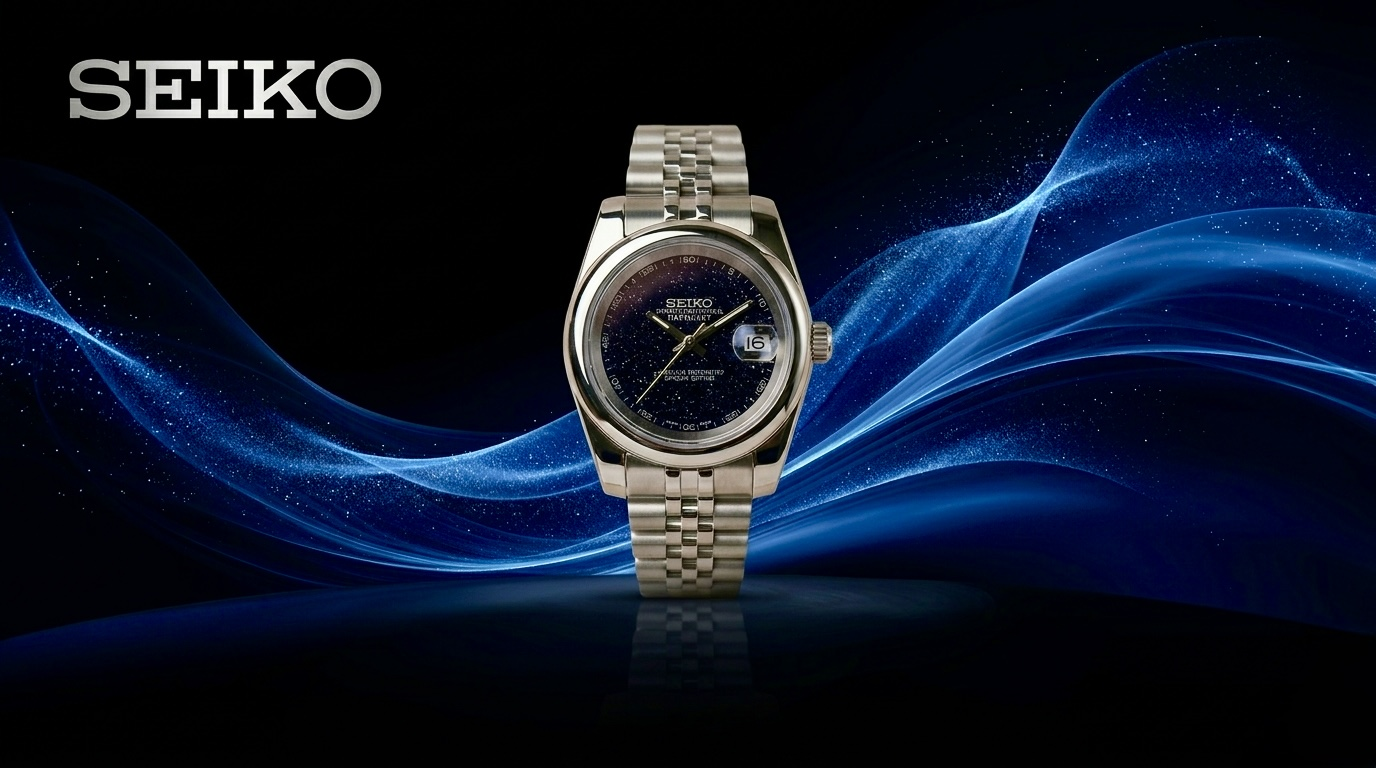
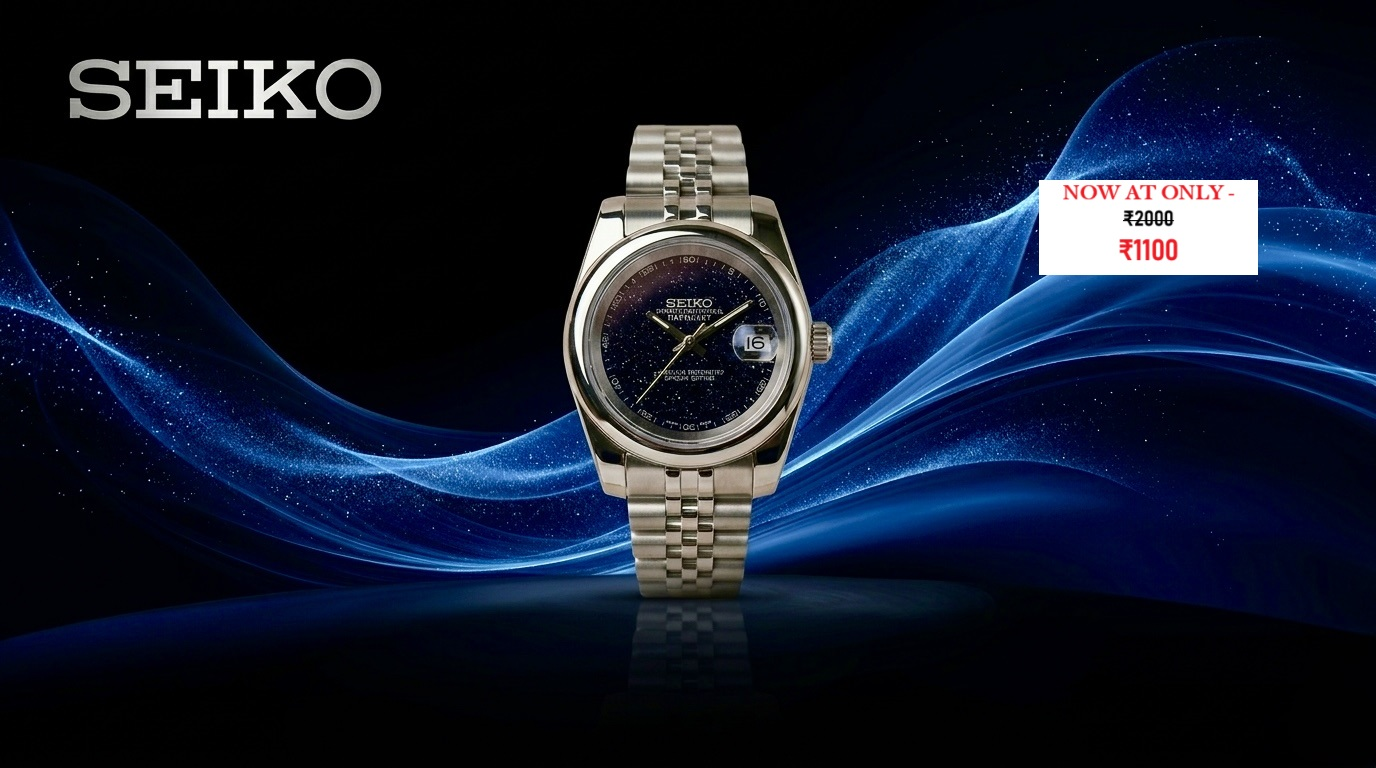
updated site

Changed region(s): [[0.75, 0.2188, 0.9375, 0.375]]

diff --git a/assets/js/main.backup.1781968257084.js b/assets/js/main.backup.1781968257084.js
@@ -756,8 +756,7 @@ const products = [
         "image": "assets/images/sunglasses/MIUMIU/miumiu-82-1.jpeg",
         "images": [
             "assets/images/sunglasses/MIUMIU/miumiu-82-1.jpeg",
-            "assets/images/sunglasses/MIUMIU/miumiu-82-2.jpeg",
-            "assets/images/sunglasses/MIUMIU/miumiu-82-3.jpeg"
+            "assets/images/sunglasses/MIUMIU/miumiu-82-2.jpeg"
         ],
         "description": "Experience the pinnacle of craftsmanship with this MEW MEW sunglasses. A perfect blend of style and precision."
     },
@@ -781,11 +780,7 @@ const products = [
         "price": "₹700",
         "image": "assets/images/sunglasses/RAY BAN/ray-ban-84-1.jpeg",
         "images": [
-            "assets/images/sunglasses/RAY BAN/ray-ban-84-1.jpeg",
-            "assets/images/sunglasses/RAY BAN/ray-ban-84-2.jpeg",
-            "assets/images/sunglasses/RAY BAN/ray-ban-84-3.jpeg",
-            "assets/images/sunglasses/RAY BAN/ray-ban-84-4.jpeg",
-            "assets/images/sunglasses/RAY BAN/ray-ban-84-5.jpeg"
+            "assets/images/sunglasses/RAY BAN/ray-ban-84-1.jpeg"
         ],
         "description": "Experience the pinnacle of craftsmanship with this REYBAN sunglasses. A perfect blend of style and precision."
     },
@@ -1250,26 +1245,8 @@ const products = [
             "assets/images/brands/ROLEX/rolex-120-1.jpeg"
         ],
         "description": "Experience the pinnacle of craftsmanship with this R0LEX timepiece. A perfect blend of style and precision."
-    },
-    {
-        "id": 121,
-        "name": "seiko luxury edition 1",
-        "brand": "SEIK0",
-        "category": "watch",
-        "canceledPrice": "₹2000",
-        "price": "₹1100",
-        "image": "assets/images/brands/SEIKO/seiko-121-1.jpeg",
-        "images": [
-            "assets/images/brands/SEIKO/seiko-121-1.jpeg",
-            "assets/images/brands/SEIKO/seiko-121-2.jpeg",
-            "assets/images/brands/SEIKO/seiko-121-3.jpeg"
-        ],
-        "description": "Experience the pinnacle of craftsmanship with this SEIK0 timepiece. A perfect blend of style and precision."
     }
 ];
-;
-;
-;
 ;
 ;
 

diff --git a/index.html b/index.html
@@ -198,7 +198,7 @@
                 <!-- Slide 1 -->
                 <div class="hot-deal-slide active">
                     <img src="assets/images/IMG_4915.jpg" alt="Hot Deal Product 1" class="hot-deal-img">
-                    <a href="details.html?id=watch_rolex_cosmograph_daytona" class="btn-hot-deal-shop">Shop Now</a>
+                    <a href="details.html?id=121" class="btn-hot-deal-shop">Shop Now</a>
                 </div>
                 <!-- Slide 2 -->
                 <div class="hot-deal-slide">
@@ -252,6 +252,7 @@
                         <label class="filter-item"><input type="checkbox" class="brand-filter" value="RECHAARD MILI"> Rechaard Mili</label>
                         <label class="filter-item"><input type="checkbox" class="brand-filter" value="TAGG HUER"> TAgg huer</label>
                         <label class="filter-item"><input type="checkbox" class="brand-filter" value="T0MMYY HILFEGER"> T0mmyy hilfeger</label>
+                        <label class="filter-item"><input type="checkbox" class="brand-filter" value="SEIK0"> Seik0</label>
                     </div>
                 </div>
             </div>
@@ -373,7 +374,7 @@
             function startAutoSlide() {
                 autoSlideInterval = setInterval(() => {
                     goToHotDealSlide(currentSlide + 1);
-                }, 5000); // Auto-transition every 5 seconds
+                }, 10000); // Auto-transition every 10 seconds
             }
 
             function stopAutoSlide() {

diff --git a/assets/js/main.backup.1781968441890.js b/assets/js/main.backup.1781968441890.js
@@ -1250,25 +1250,8 @@ const products = [
             "assets/images/brands/ROLEX/rolex-120-1.jpeg"
         ],
         "description": "Experience the pinnacle of craftsmanship with this R0LEX timepiece. A perfect blend of style and precision."
-    },
-    {
-        "id": 121,
-        "name": "seiko luxury edition 1",
-        "brand": "SEIK0",
-        "category": "watch",
-        "canceledPrice": "₹2000",
-        "price": "₹1100",
-        "image": "assets/images/brands/SEIKO/seiko-121-1.jpeg",
-        "images": [
-            "assets/images/brands/SEIKO/seiko-121-1.jpeg",
-            "assets/images/brands/SEIKO/seiko-121-2.jpeg",
-            "assets/images/brands/SEIKO/seiko-121-3.jpeg"
-        ],
-        "description": "Experience the pinnacle of craftsmanship with this SEIK0 timepiece. A perfect blend of style and precision."
     }
 ];
-;
-;
 ;
 ;
 ;

diff --git a/details.html b/details.html
@@ -135,7 +135,7 @@
                     <div class="details-info">
                         <span class="details-brand">${product.brand}</span>
                         <h1>${product.name}</h1>
-                        <p class="details-price">${product.price}</p>
+                        <p class="details-price">${product.canceledPrice ? `<span style="text-decoration:line-through;color:#888;font-size:0.7em;margin-right:10px;font-weight:400;">${product.canceledPrice}</span>` : ''}${product.price}</p>
                         <p class="details-desc">${product.description}</p>
                         
                         <div style="display: flex; flex-direction: column; gap: 15px; margin-top: 25px;">

diff --git a/assets/js/main.backup.1781968970744.js b/assets/js/main.backup.1781968970744.js
@@ -1260,14 +1260,11 @@ const products = [
         "price": "₹1100",
         "image": "assets/images/brands/SEIKO/seiko-121-1.jpeg",
         "images": [
-            "assets/images/brands/SEIKO/seiko-121-1.jpeg",
-            "assets/images/brands/SEIKO/seiko-121-2.jpeg",
-            "assets/images/brands/SEIKO/seiko-121-3.jpeg"
+            "assets/images/brands/SEIKO/seiko-121-1.jpeg"
         ],
         "description": "Experience the pinnacle of craftsmanship with this SEIK0 timepiece. A perfect blend of style and precision."
     }
 ];
-;
 ;
 ;
 ;
